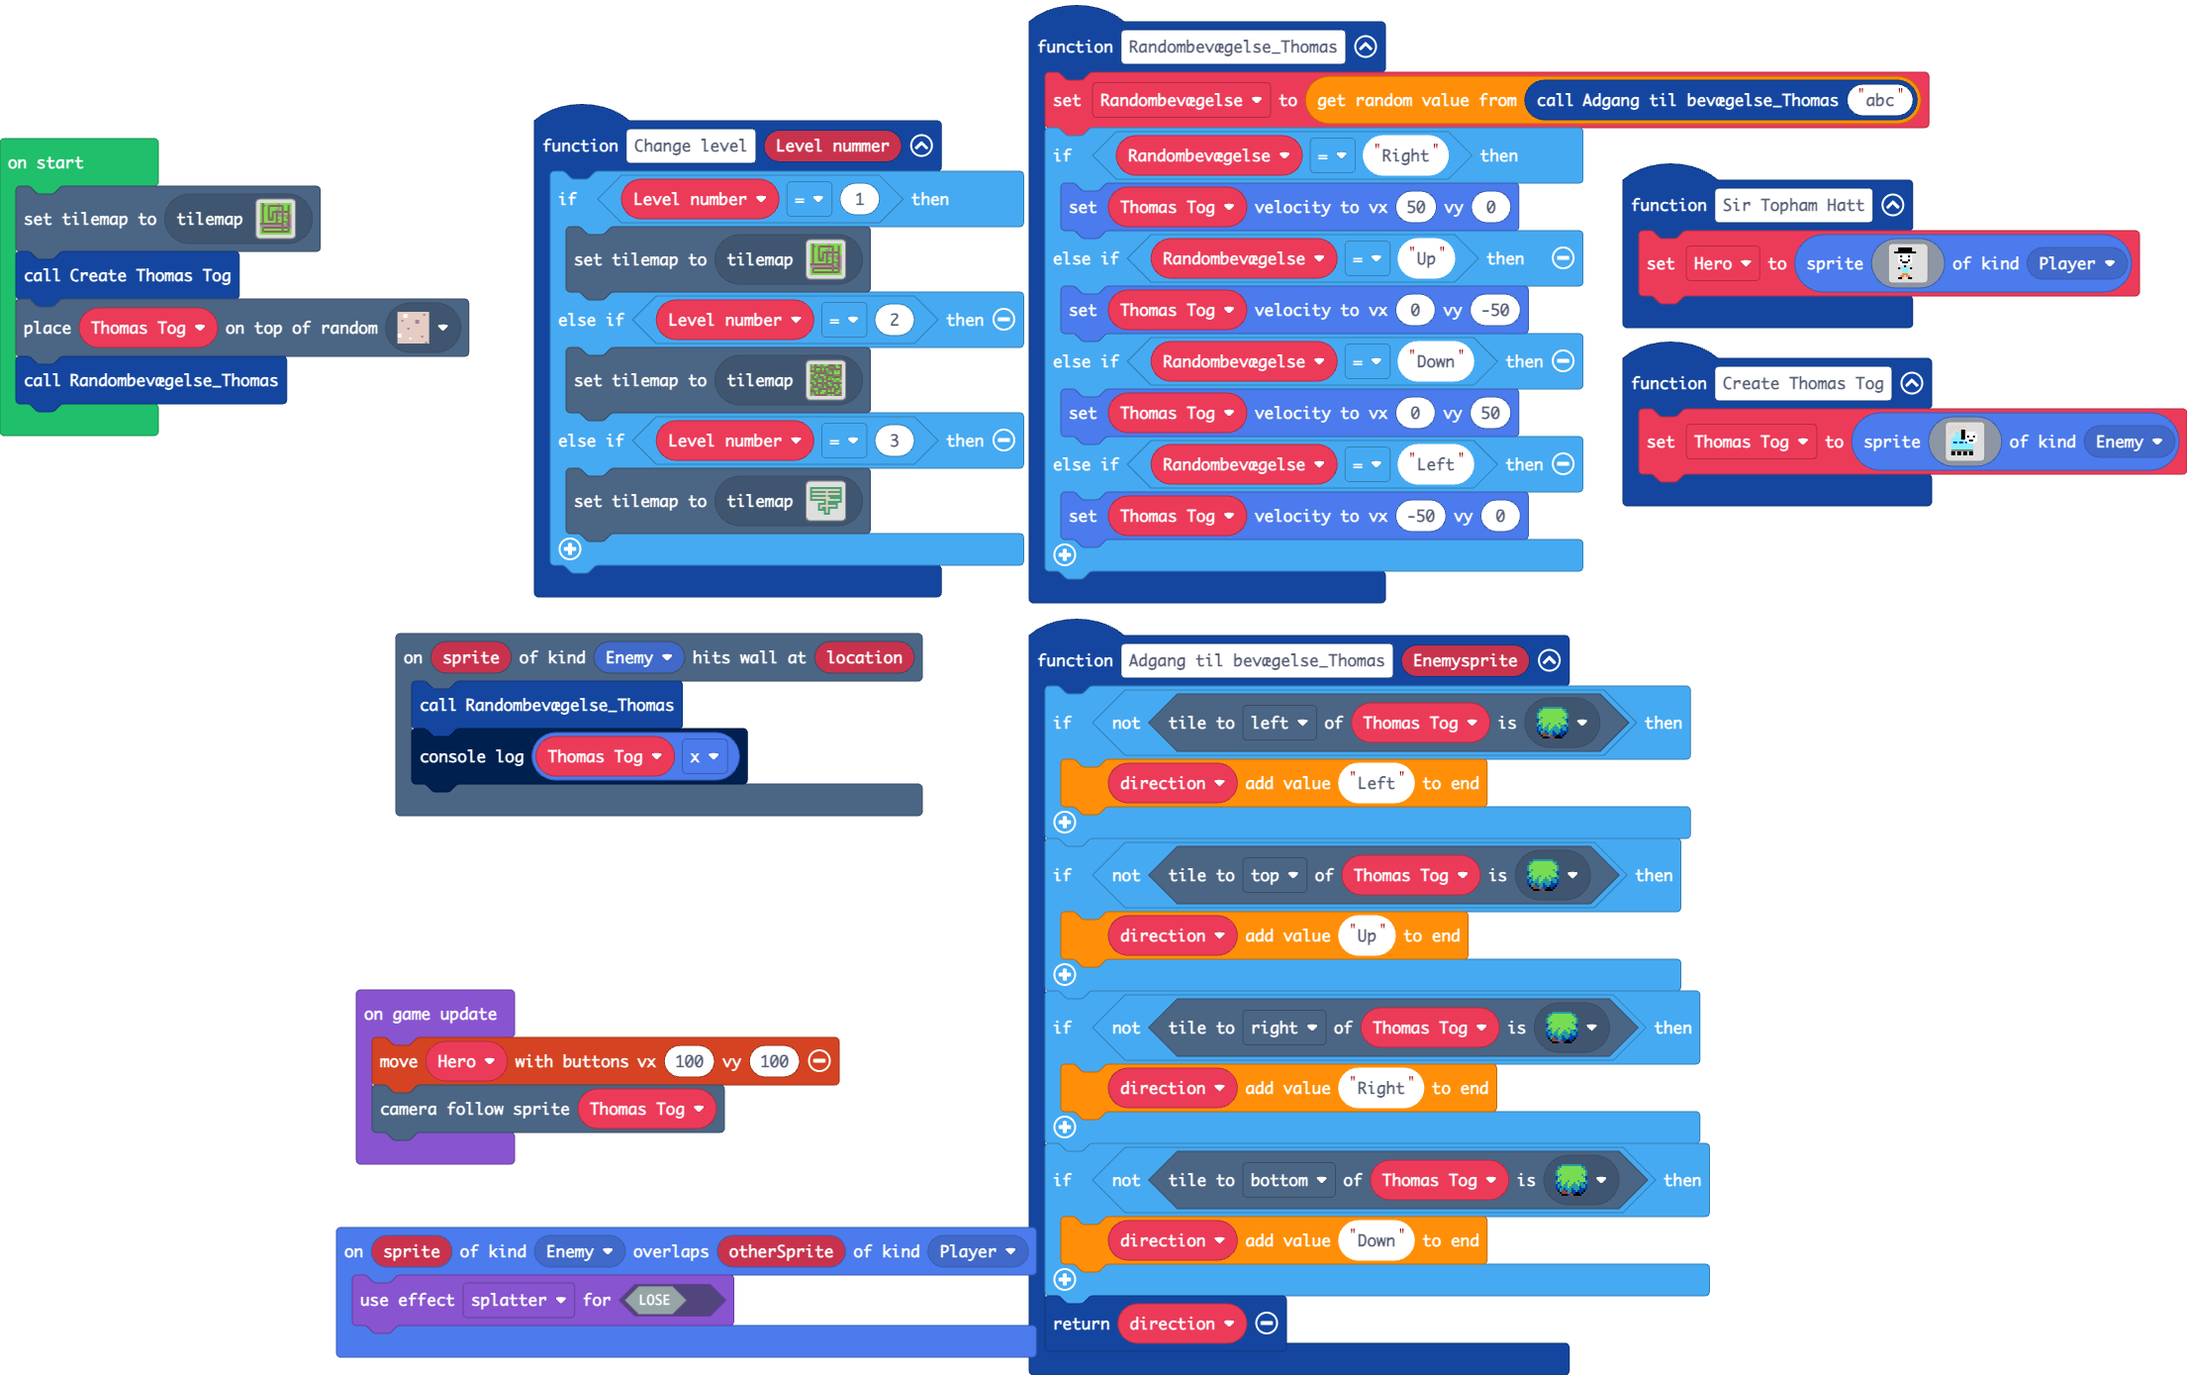
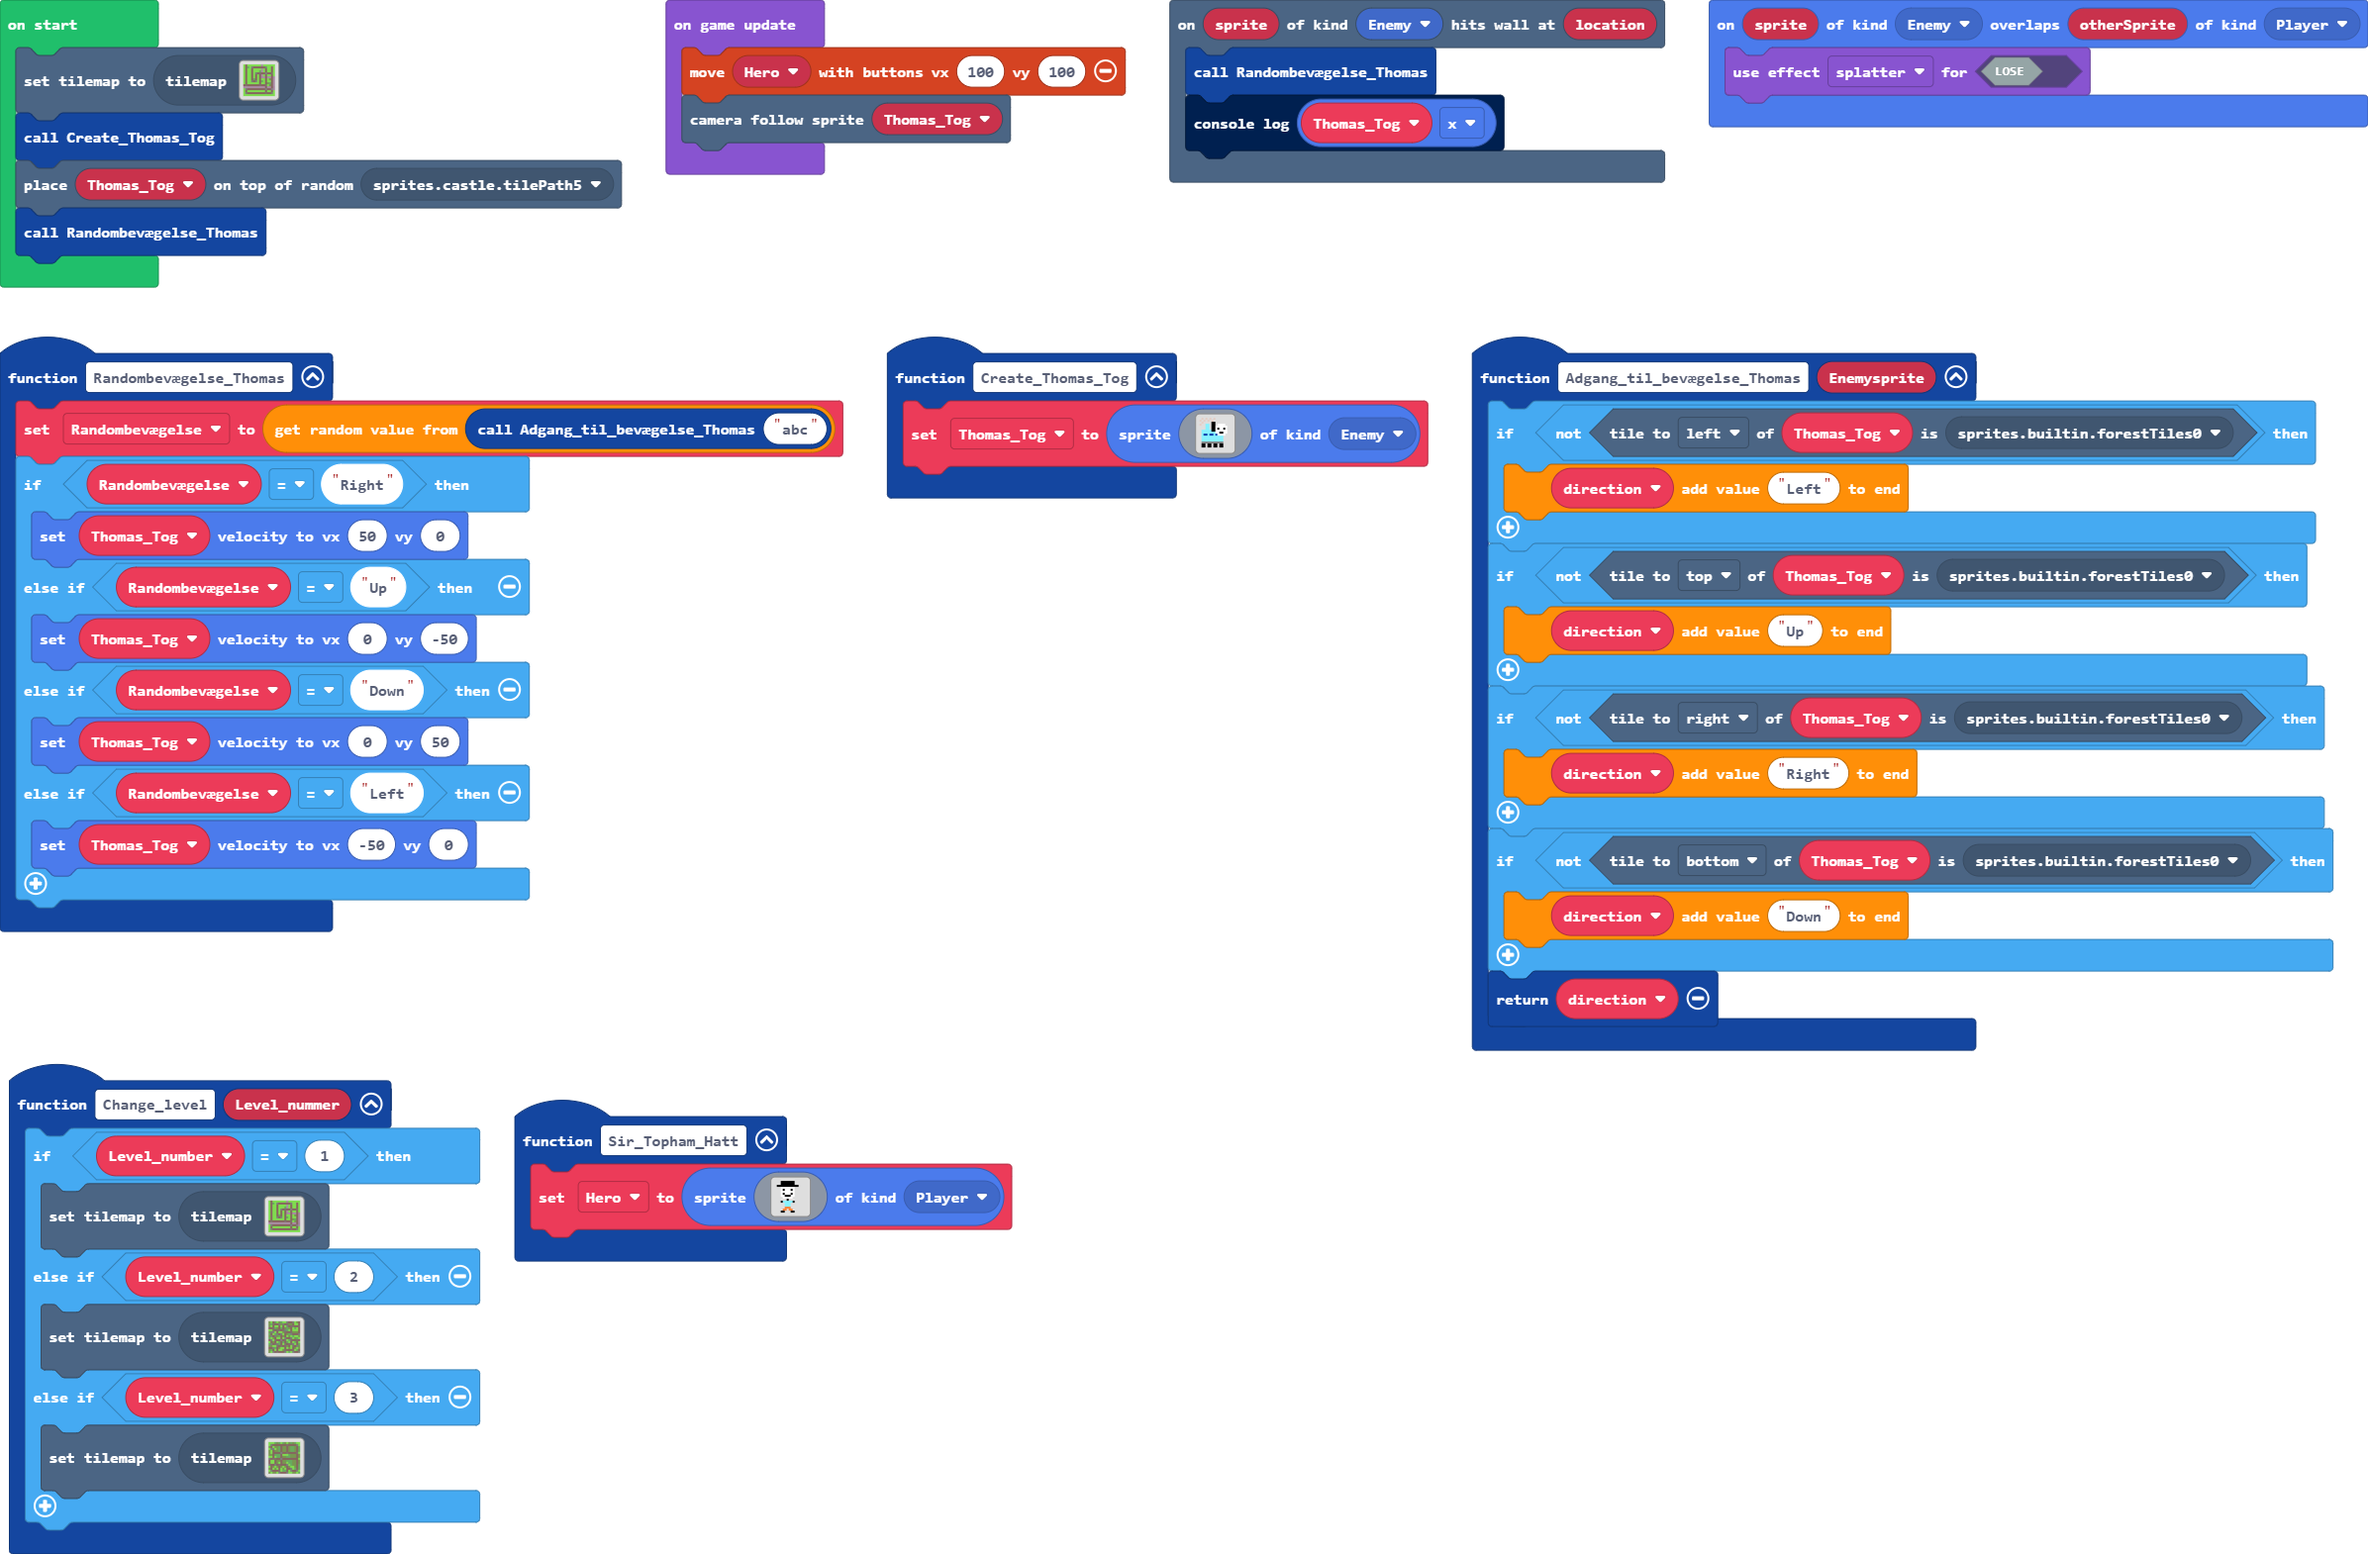
Level 3

diff --git a/tilemap.g.ts b/tilemap.g.ts
@@ -92,25 +92,6 @@ namespace myTiles {
 . . . . . . . . . . . . . . . . 
 . . . . . . . . . . . . . . . . 
 `, [myTiles.transparency16], TileScale.Sixteen);
-            case "level7":
-            case "level7":return tiles.createTilemap(hex`1000100000000000000000000000000000000000000000000000000000000000000000000000000000000000000000000000000000000000000000000000000000000000000000000000000000000000000000000000000000000000000000000000000000000000000000000000000000000000000000000000000000000000000000000000000000000000000000000000000000000000000000000000000000000000000000000000000000000000000000000000000000000000000000000000000000000000000000000000000000000000000000000000000000000000000000000000000000000000000000000000000000000000000000000000000000000000`, img`
-. . . . . . . . . . . . . . . . 
-. . . . . . . . . . . . . . . . 
-. . . . . . . . . . . . . . . . 
-. . . . . . . . . . . . . . . . 
-. . . . . . . . . . . . . . . . 
-. . . . . . . . . . . . . . . . 
-. . . . . . . . . . . . . . . . 
-. . . . . . . . . . . . . . . . 
-. . . . . . . . . . . . . . . . 
-. . . . . . . . . . . . . . . . 
-. . . . . . . . . . . . . . . . 
-. . . . . . . . . . . . . . . . 
-. . . . . . . . . . . . . . . . 
-. . . . . . . . . . . . . . . . 
-. . . . . . . . . . . . . . . . 
-. . . . . . . . . . . . . . . . 
-`, [myTiles.transparency16], TileScale.Sixteen);
             case "level1":
[1 lines of base64/hex data omitted]
 2 . 2 2 2 2 2 2 2 . 2 2 2 2 2 2 
@@ -150,7 +131,7 @@ namespace myTiles {
 . . . . . . . . . . . . . . . . 
 `, [myTiles.transparency16,myTiles.tile1,myTiles.tile2,myTiles.tile3,myTiles.tile4,myTiles.tile5,myTiles.tile6,myTiles.tile8,myTiles.tile9,myTiles.tile10,myTiles.tile11,myTiles.tile12,myTiles.tile13,myTiles.tile14,myTiles.tile15,sprites.castle.tileGrass1], TileScale.Sixteen);
             case "level3":
-            case "level3":return tiles.createTilemap(hex`1000100000000000000000000000000000000000020202020202020202020202020202020201010101010101010101010101010202020202020202020102020202020202020101010101010101010101010101020202020202020202010202020202020202010101010101010101020202020202020202020202020201010101030101020000000000000002010202020202020200000000020202020102020202020000000000000201010101010101010200000000000002010202010202020202000000000000020202020102000000000000000000000000000201020000000000000000000000000002020200000000000000000000000000000000000000000000`, img`
+            case "level3":return tiles.createTilemap(hex`1000100000000000000000000000000000000000000000000000000000000000000000000000000000000000000000000000000000000000000000000000000000000000000000000000000000000000000000000000000000000000000000000000000000000000000000000000000000000000000000000000000000000000000000000000000000000000000000000000000000000000000000000000000000000000000000000000000000000000000000000000000000000000000000000000000000000000000000000000000000000000000000000000000000000000000000000000000000000000000000000000000000000000000000000000000000000000`, img`
 . . . . . . . . . 2 2 2 2 2 2 . 
 2 2 2 2 2 2 2 2 2 2 2 2 2 2 2 2 
 2 . . . . . . . . . . . . . . 2 
@@ -167,7 +148,64 @@ namespace myTiles {
 . . . . . . . 2 . 2 . . . . . . 
 . . . . . . . 2 2 2 . . . . . . 
 . . . . . . . . . . . . . . . . 
-`, [myTiles.transparency16,sprites.castle.tilePath5,sprites.builtin.forestTiles0,sprites.castle.tilePath2], TileScale.Sixteen);
+`, [myTiles.transparency16], TileScale.Sixteen);
+            case "level8":
+            case "level8":return tiles.createTilemap(hex`1000100000000000000000000000000000000000000000000000000000000000000000000000000000000000000000000000000000000000000000000000000000000000000000000000000000000000000000000000000000000000000000000000000000000000000000000000000000000000000000000000000000000000000000000000000000000000000000000000000000000000000000000000000000000000000000000000000000000000000000000000000000000000000000000000000000000000000000000000000000000000000000000000000000000000000000000000000000000000000000000000000000000000000000000000000000000000`, img`
+. . . . . . . . . . . . . . . . 
+. . . . . . . . . . . . . . . . 
+. . . . . . . . . . . . . . . . 
+. . . . . . . . . . . . . . . . 
+. . . . . . . . . . . . . . . . 
+. . . . . . . . . . . . . . . . 
+. . . . . . . . . . . . . . . . 
+. . . . . . . . . . . . . . . . 
+. . . . . . . . . . . . . . . . 
+. . . . . . . . . . . . . . . . 
+. . . . . . . . . . . . . . . . 
+. . . . . . . . . . . . . . . . 
+. . . . . . . . . . . . . . . . 
+. . . . . . . . . . . . . . . . 
+. . . . . . . . . . . . . . . . 
+. . . . . . . . . . . . . . . . 
+`, [myTiles.transparency16], TileScale.Sixteen);
+            case "level9":
+            case "level9":return tiles.createTilemap(hex`1000100000000000000000000000000000000000000000000000000000000000000000000000000000000000000000000000000000000000000000000000000000000000000000000000000000000000000000000000000000000000000000000000000000000000000000000000000000000000000000000000000000000000000000000000000000000000000000000000000000000000000000000000000000000000000000000000000000000000000000000000000000000000000000000000000000000000000000000000000000000000000000000000000000000000000000000000000000000000000000000000000000000000000000000000000000000000`, img`
+. . . . . . . . . . . . . . . . 
+. . . . . . . . . . . . . . . . 
+. . . . . . . . . . . . . . . . 
+. . . . . . . . . . . . . . . . 
+. . . . . . . . . . . . . . . . 
+. . . . . . . . . . . . . . . . 
+. . . . . . . . . . . . . . . . 
+. . . . . . . . . . . . . . . . 
+. . . . . . . . . . . . . . . . 
+. . . . . . . . . . . . . . . . 
+. . . . . . . . . . . . . . . . 
+. . . . . . . . . . . . . . . . 
+. . . . . . . . . . . . . . . . 
+. . . . . . . . . . . . . . . . 
+. . . . . . . . . . . . . . . . 
+. . . . . . . . . . . . . . . . 
+`, [myTiles.transparency16], TileScale.Sixteen);
+            case "level0":
[1 lines of base64/hex data omitted]
+. . . . . . . . . . . . . . . . 
+. . . . . . . . . . . . . . . . 
+. . . . . . . . . . . . . . . . 
+. . . . . . . . . . . . . . . . 
+. . . . . . . . . . . . . . . . 
+. . . . . . . . . . . . . . . . 
+. . . . . . . . . . . . . . . . 
+. . . . . . . . . . . . . . . . 
+. . . . . . . . . . . . . . . . 
+. . . . . . . . . . . . . . . . 
+. . . . . . . . . . . . . . . . 
+. . . . . . . . . . . . . . . . 
+. . . . . . . . . . . . . . . . 
+. . . . . . . . . . . . . . . . 
+. . . . . . . . . . . . . . . . 
+. . . . . . . . . . . . . . . . 
+`, [myTiles.transparency16,myTiles.tile1,myTiles.tile2,myTiles.tile3,myTiles.tile4,myTiles.tile5,myTiles.tile6,myTiles.tile8,myTiles.tile9,myTiles.tile10,myTiles.tile11,myTiles.tile13,myTiles.tile14,myTiles.tile15,sprites.castle.tileGrass1], TileScale.Sixteen);
         }
         return null;
     })

diff --git a/main.ts b/main.ts
@@ -10,8 +10,15 @@ function Randombevægelse_Thomas () {
         Thomas_Tog.setVelocity(-50, 0)
     }
 }
-function Create_Thomas_Tog () {
-    Thomas_Tog = sprites.create(assets.image`Thomas`, SpriteKind.Enemy)
+function Change_level (Level_nummer: string) {
+    let Level_number = 0
+    if (Level_number == 1) {
+        tiles.setCurrentTilemap(tilemap`level1`)
+    } else if (Level_number == 2) {
+        tiles.setCurrentTilemap(tilemap`Level 2 Tilemap`)
+    } else if (Level_number == 3) {
+        tiles.setCurrentTilemap(tilemap`level0`)
+    }
 }
 function Adgang_til_bevægelse_Thomas (Enemysprite: string) {
     let direction: string[] = []
@@ -36,18 +43,11 @@ scene.onHitWall(SpriteKind.Enemy, function (sprite, location) {
 sprites.onOverlap(SpriteKind.Enemy, SpriteKind.Player, function (sprite, otherSprite) {
     game.setGameOverEffect(false, effects.splatter)
 })
-function Change_level (Level_nummer: string) {
-    let Level_number = 0
-    if (Level_number == 1) {
-        tiles.setCurrentTilemap(tilemap`level1`)
-    } else if (Level_number == 2) {
-        tiles.setCurrentTilemap(tilemap`Level 2 Tilemap`)
-    } else if (Level_number == 3) {
-        tiles.setCurrentTilemap(tilemap`level3`)
-    }
-}
 function Sir_Topham_Hatt () {
     Hero = sprites.create(assets.image`Sir Hatt`, SpriteKind.Player)
+}
+function Create_Thomas_Tog () {
+    Thomas_Tog = sprites.create(assets.image`Thomas`, SpriteKind.Enemy)
 }
 let Hero: Sprite = null
 let Randombevægelse = ""
